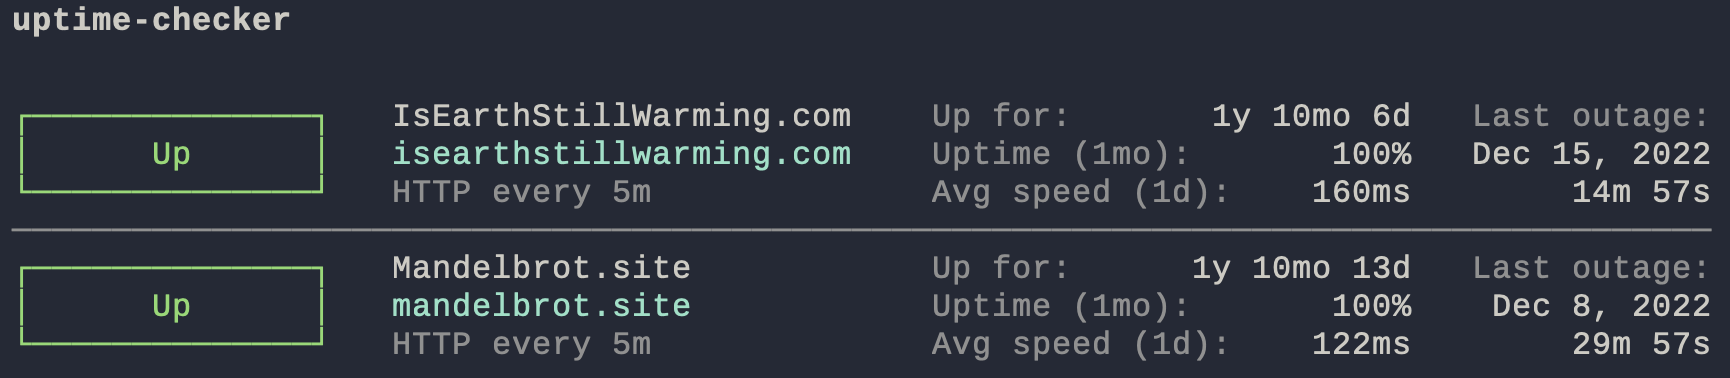
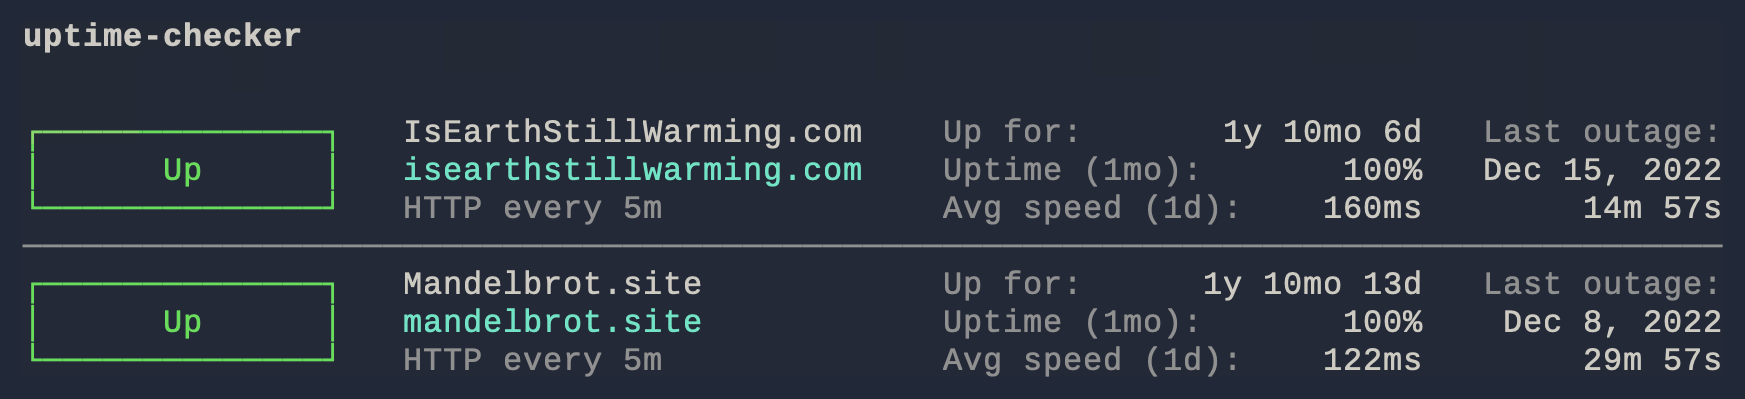
Improve example image margins

diff --git a/readme.md b/readme.md
@@ -8,7 +8,7 @@ It's built with React using the [Ink](https://github.com/vadimdemedes/ink) rende
 
 ## Example image
 
-![alt text](example-image.png)
+![Example screenshot](https://github.com/rosslh/uptime-checker/raw/main/example-image.png)
 _Warp terminal, Ayu Mirage theme, Cousine font_
 
 ## Install
